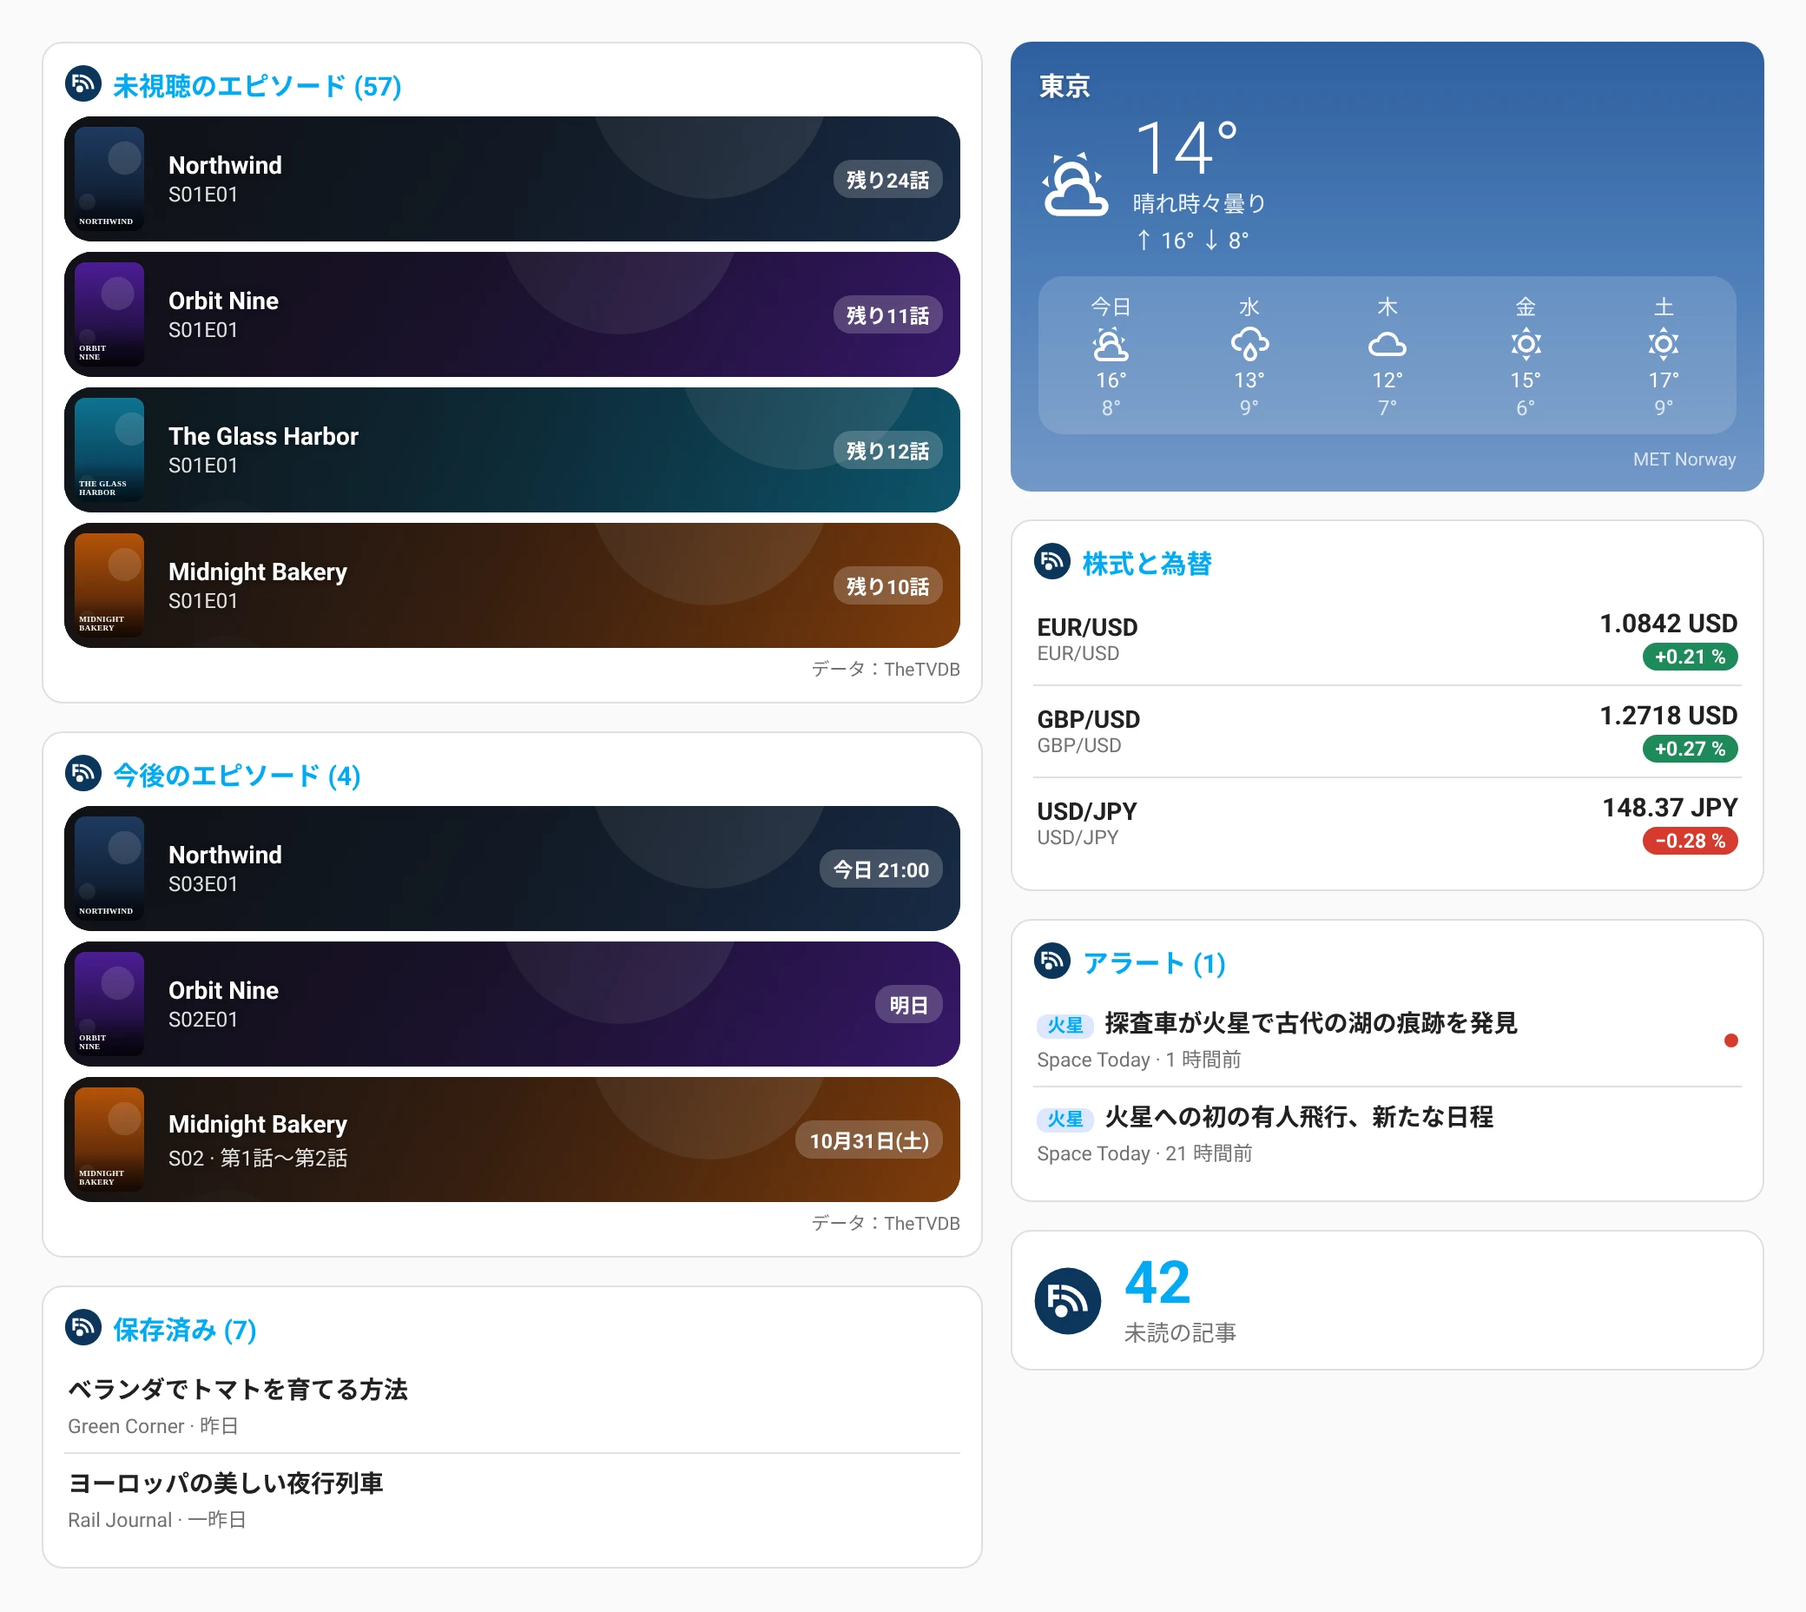
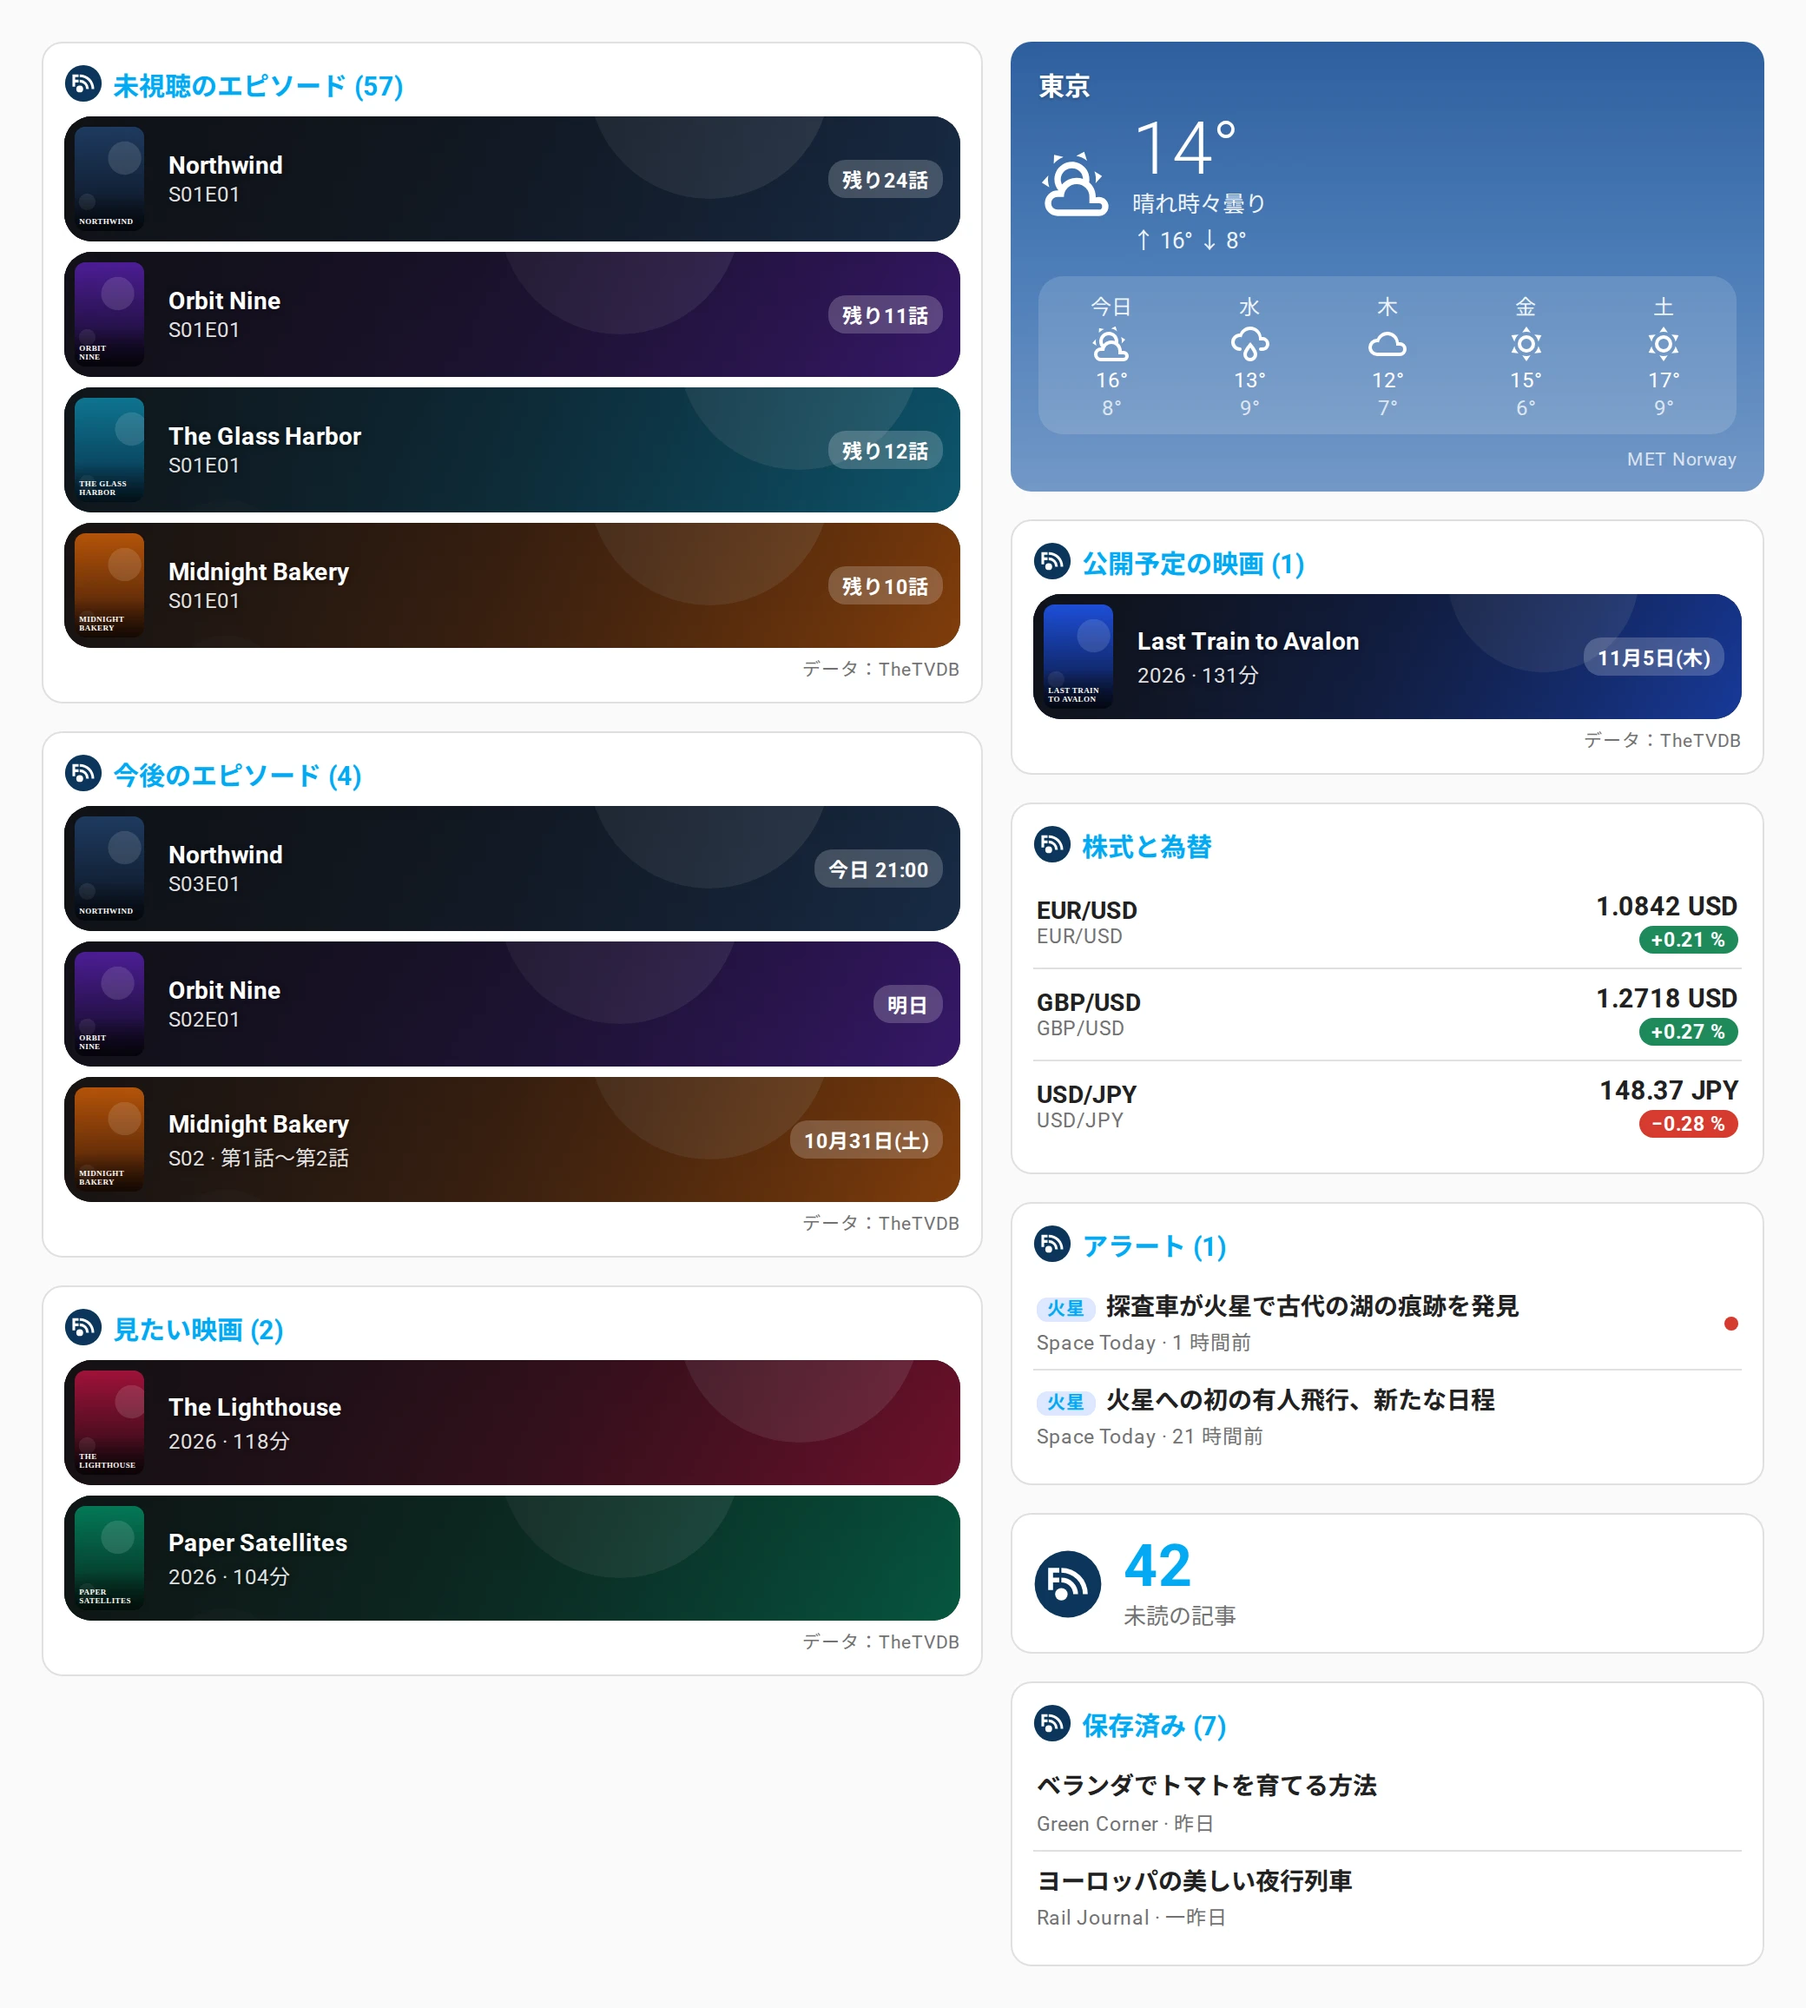
README pictures: the Movies cards (to watch and upcoming)
The pictures were rendered before the Movies card existed; render.mjs now
draws two invented films to watch and one announced release, in every
language.

diff --git a/README.md b/README.md
@@ -4,7 +4,7 @@ A [Home Assistant](https://www.home-assistant.io) integration for
 [Feedrion](https://feedrion.com): your feeds, your TV shows, your cities'
 weather, your currencies and your stocks, as entities, events and actions.
 
-![Feedrion cards on a Home Assistant dashboard: episodes to watch, upcoming episodes, weather, currencies, saved articles, keyword alerts and the unread counter](docs/images/cards-en.webp)
+![Feedrion cards on a Home Assistant dashboard: episodes to watch, upcoming episodes, movies to watch, upcoming movies, weather, currencies, saved articles, keyword alerts and the unread counter](docs/images/cards-en.webp)
 
 **Requires Feedrion Premium.** A connected account that is not Premium shows a
 repair notice and its sensors go unavailable until it is.
